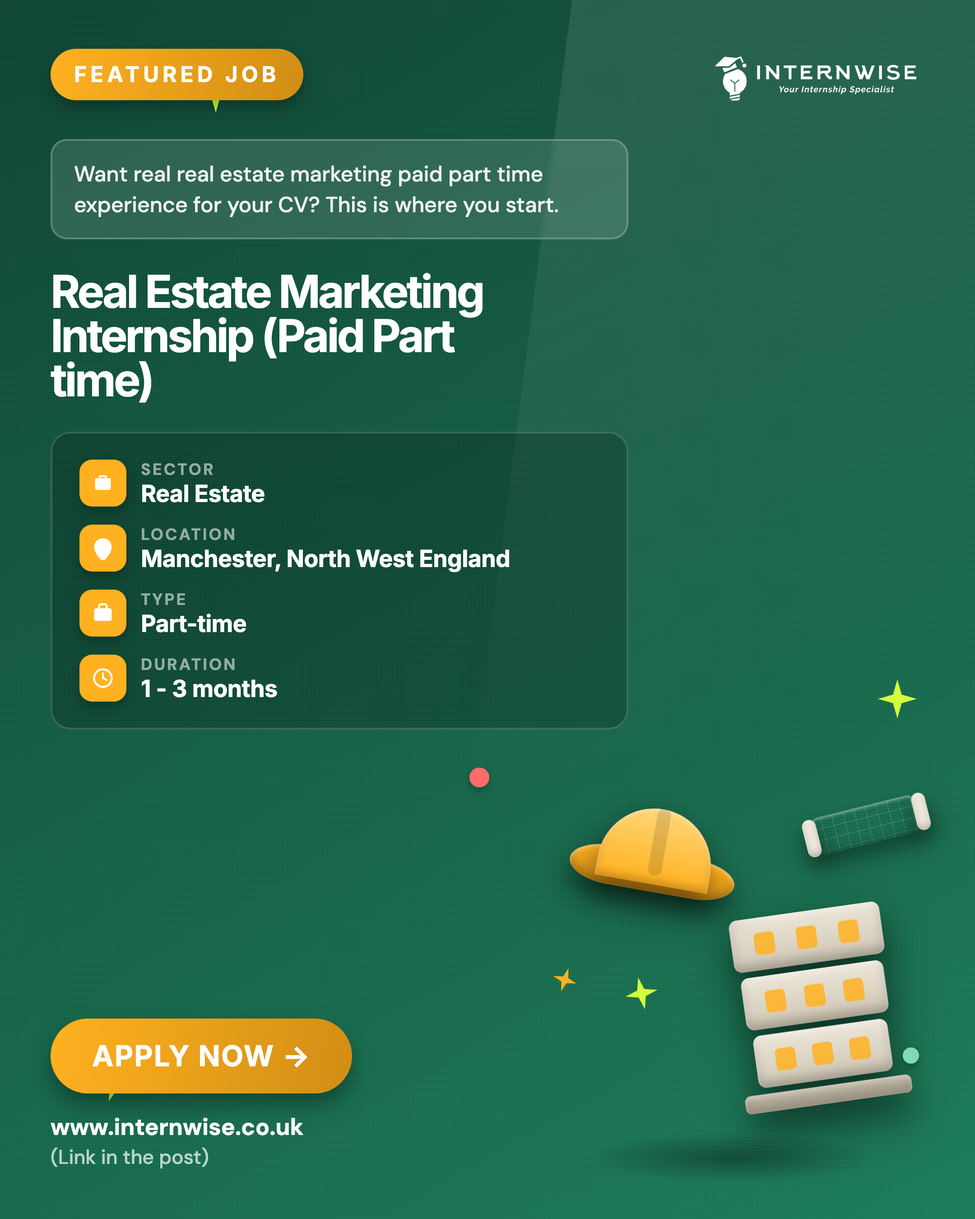
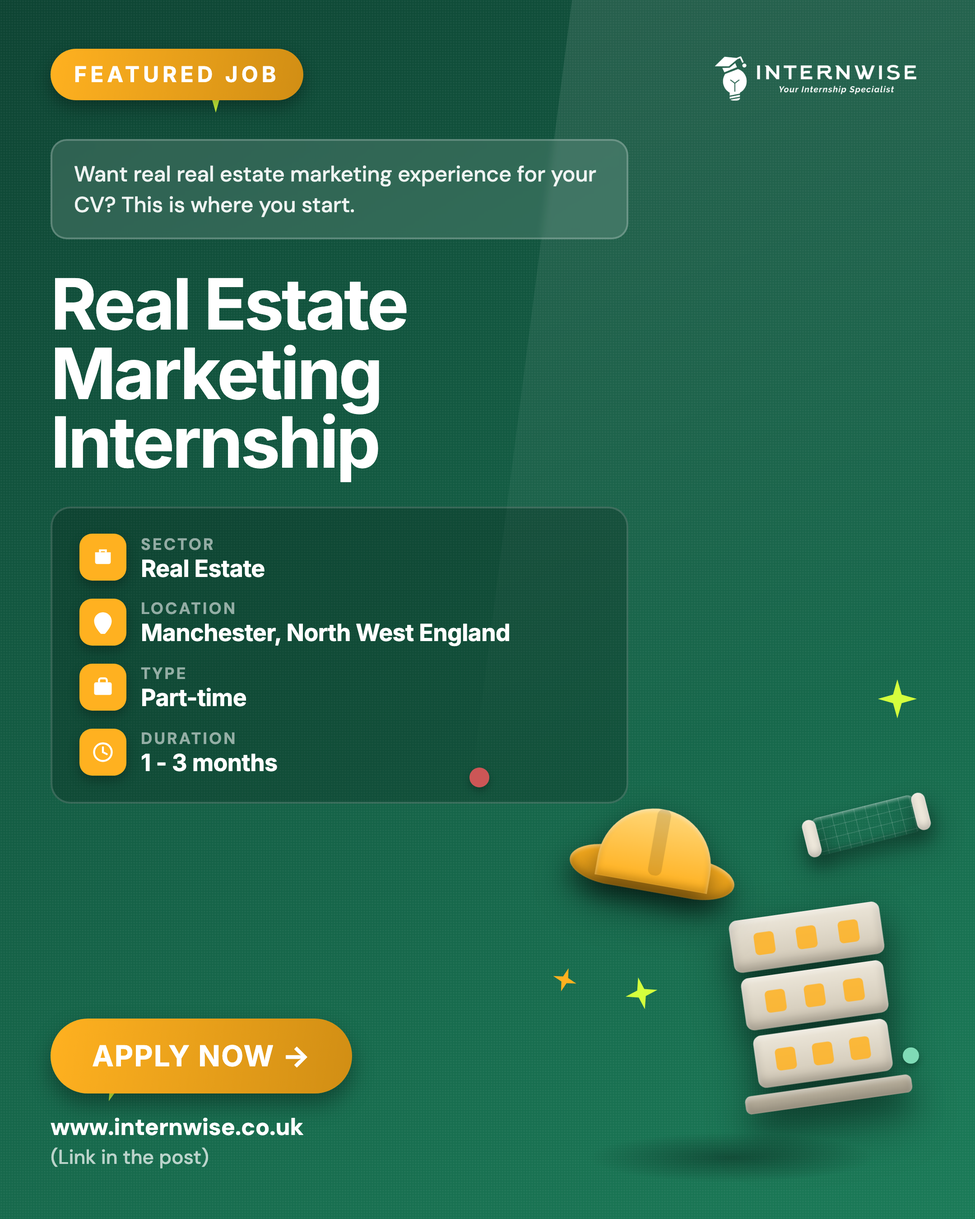
Featured: strip ANY parenthetical from job titles (client rule)
strip_year only removed year/'Part-Time' brackets, so '(Paid Part time)' etc.
leaked through. Now strips every (...) group. Fixed both featured_job.py and the
social-media mirror, and regenerated job-35390 (title + caption).

Changed region(s): [[0.031, 0.2178, 0.5273, 0.6533], [0.062, 0.1244, 0.6204, 0.1867], [0.4653, 0.6222, 0.4963, 0.6533]]

diff --git a/automation/featured_job.py b/automation/featured_job.py
@@ -455,15 +455,15 @@ def _sanitize(s):
 def strip_year(s):
     """Reduce a scraped listing title to just the job role. Drops:
       - a trailing employer mention: '... at M&K Accountants'
-      - a trailing parenthetical: a year '(2026)' or type '(Part-Time)'/'(Full Time)'.
+      - ANY parenthetical: '(2026)', '(Paid Part time)', '(Backend)', etc.
+        (client rule: no text in brackets appears in the title).
     Keeps the role itself intact. Rule applies to all future graphics + captions."""
     if not s: return ""
     # strip a trailing " at <employer>" (case-insensitive)
     s = re.sub(r"\s+\bat\b\s+.+$", "", s, flags=re.I)
-    # strip a trailing year or employment-type in parentheses
-    s = re.sub(r"\s*\(\s*(?:(?:19|20)\d{2}|(?:part|full)[\s-]?time)\s*\)\s*$",
-               "", s, flags=re.I)
-    return s.strip()
+    # strip every parenthetical group and its contents
+    s = re.sub(r"\s*\([^)]*\)", "", s)
+    return re.sub(r"\s+", " ", s).strip()
 
 def _wrap_title(title):
     """Balance the title into up to 3 lines; return (html_with_br, font_size)."""

diff --git a/social-media/tools/featured_job.py b/social-media/tools/featured_job.py
@@ -460,10 +460,9 @@ def strip_year(s):
     if not s: return ""
     # strip a trailing " at <employer>" (case-insensitive)
     s = re.sub(r"\s+\bat\b\s+.+$", "", s, flags=re.I)
-    # strip a trailing year or employment-type in parentheses
-    s = re.sub(r"\s*\(\s*(?:(?:19|20)\d{2}|(?:part|full)[\s-]?time)\s*\)\s*$",
-               "", s, flags=re.I)
-    return s.strip()
+    # strip every parenthetical group and its contents (client rule)
+    s = re.sub(r"\s*\([^)]*\)", "", s)
+    return re.sub(r"\s+", " ", s).strip()
 
 def _wrap_title(title):
     """Balance the title into up to 3 lines; return (html_with_br, font_size)."""
